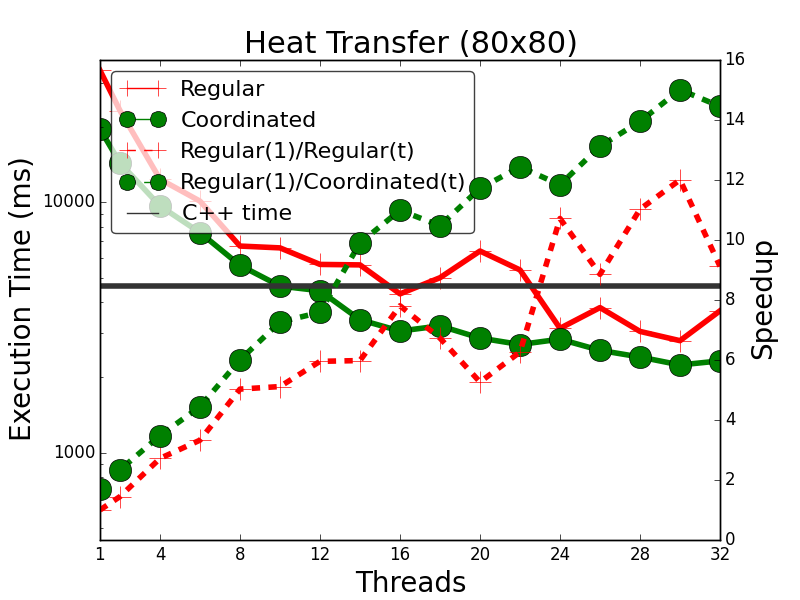
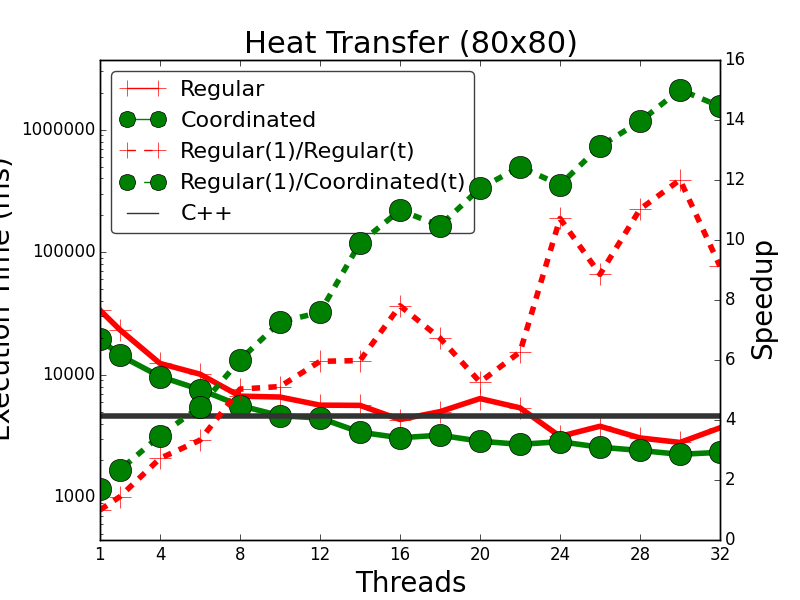
Add ligra results.

diff --git a/coordination/coord_sssp.tex b/coordination/coord_sssp.tex
@@ -71,7 +71,7 @@ and threads are still able to locally avoid unnecessary work.
 
 In order to experiment with the coordinated SSSP program, we extend it to
 support the computation of shortest distances from multiple sources. This
-modified version, named MSSD was already used in
+modified version, named MSSD, was already used in
 Section~\ref{section:implementation:performance} for measuring the performance
 of LM's virtual machine. MSSD is not only more interesting than SSSP but also
 allows us to better understand the advantages of using coordination.
@@ -110,9 +110,15 @@ version; \textbf{Regular(1)/Regular(t)}, which represents the speedup of the
 regular version using the single threaded regular version as the baseline;
 \textbf{Regular(1)/Coordinated(t)}, which represents the speedup of the
 coordinated version against the run time of the regular version using 1 thread
-as the baseline; and \textbf{C++}, which represents the run time of the MSSD C++
-program already presented in Section~\ref{section:implementation:performance}.
-Note that the run time (vertical axis) axis uses a logarithmic scale.
+as the baseline; \textbf{C++}, which represents the run time of the MSSD C++
+program already presented in Section~\ref{section:implementation:performance};
+\textbf{Ligra}, which represents the run time of the MSSD program written in the
+Ligra framework~\cite{Shun:2013:LLG:2517327.2442530}. Ligra's program computes
+the multiple shortest distance computations using the BellmanFord program
+provided by the source distribution\footnote{Modified version of the program is
+available at \url{http://github.com/flavioc/ligra}}, but modified to compute
+the distance from a single source node separately.  Note that the run time
+(vertical axis) axis uses a logarithmic scale.
 
 Overall, there is a clear improvement in almost every dataset used. The datasets
 that see the best run time reductions are Twitter, Orkut and LiveJournal, which
@@ -180,6 +186,20 @@ version. This means that even if higher priority nodes are picked from the each
 thread's subgraph, the coordinated version is still able to reduce run time. In
 other words, optimal (global) node scheduling is not required to see good
 results.
+
+Ligra's version of the MSSD program performs badly when using multiple source
+nodes (datasets EU Email, OCLinks and US Power Grid). We found Ligra primitives
+(\code{edgeMap} and \code{vertexMap}) unsuitable for simultaneous computation of
+shortest distances. It would have been better to drop Ligra and use a
+task-parallel approach, where tasks, represented as source nodes, are assigned
+to threads and each task would use a sequential shortest distance algorithm. LM
+shines in such cases since it is a declarative language that can be used to
+solve a wider range of problems. Ligra beats LM in the Twitter, Orkut and
+LiveJournal datasets, where Ligra is, on average, 9, 3, and 10 times faster than
+LM, respectively. In terms of scalability, LM has similar scalability in the
+Twitter and Orkut datasets, but worse scalability in the LiveJournal dataset. It
+should be also noted that the datasets EU Email and OCLinks are too small for
+Ligra, therefore it is hard to make a scalability comparison for those datasets.
 
 In Section~\ref{section:coordination:coord_instrs}, we described the coalescing
 optimization where priority action facts are coalesced into single operations.

diff --git a/threads/powergrid.tex b/threads/powergrid.tex
@@ -324,22 +324,22 @@ having many generators in the case of using just 1 thread.
 
 The second important observation relates to the last two datasets where we
 experimented with a variable capacity for the generators. For the Low
-Variability dataset, the consumers have very identical capacities, while in the
-High Variability dataset, generators have a more variable capacity, which should
-make it harder for the algorithm to find a valid generator/consumer assignment.
-Our results show exactly that: the Low Variability shows a very small difference
-between the \textbf{Regular} and \textbf{Threads} version, while in the High
-Variability dataset, the \textbf{Threads} version is much faster than the
-\textbf{Regular} version. However, for the High Variability dataset, we were
-expecting a speedup that was closer to the 0.5 M C / 2000 G dataset, since the
-number of generators is much higher. Furthermore, if we compare the run times of
-the \textbf{Regular} and \textbf{Threads} version when using 1 thread, we notice
-that the \textbf{Threads} version is actually slower. As noted before, this may
-be due to the fact that the LM rule for assigning generators to consumers needs
-to perform a linear scan on the available generators to find a suitable
-generator which then negatively impacts performance. This is a clear drawback of
-the logic programming model that could potentially be solved by maintaining a
-sorted list of \texttt{thread-capacity} facts.
+Variability dataset, the consumers have identical capacities, while in the High
+Variability dataset, generators have a more variable capacity, which should make
+it harder for the algorithm to find a valid generator/consumer assignment.  Our
+results show exactly that: the Low Variability shows a small difference between
+the \textbf{Regular} and \textbf{Threads} version, while in the High Variability
+dataset, the \textbf{Threads} version is much faster than the \textbf{Regular}
+version. However, for the High Variability dataset, we were expecting a speedup
+that was closer to the 0.5 M C / 2000 G dataset, since the number of generators
+is much higher. Furthermore, if we compare the run times of the \textbf{Regular}
+and \textbf{Threads} version when using 1 thread, we notice that the
+\textbf{Threads} version is actually slower. As noted before, this may be due to
+the fact that the LM rule for assigning generators to consumers needs to perform
+a linear scan on the available generators to find a suitable generator which
+then negatively impacts performance. This is a clear drawback of the logic
+programming model that could potentially be solved by maintaining a sorted list
+of \texttt{thread-capacity} facts.
 
 In Table~\ref{table:threads:powergrid_stats}, we present several fact statistics
 that compare the \textbf{Regular} version with the \textbf{Threads} version when

diff --git a/background/parallel_programming.tex b/background/parallel_programming.tex
@@ -18,22 +18,22 @@ processing unit that makes work distribution decisions or the scheduler uses a
 to improve load balance.
 
 A popular technique for implementing parallelism is by using \emph{imperative
-parallel programming}. In imperative programming, there is a
-sequence of steps that the processor must do and a \emph{memory area} where the
-processor stores and retrieves data during the course of execution. To implement
-parallelism, imperative applications are modified using new concurrency or
-communication constructs that allow the programmer to explicitly exploit
-parallelism. It requires the programmer to write code to efficiently split
-computation among processing units and allow sharing of data between processing
-units. Imperative parallel
-programming is a low-level form of parallel programming because the programmer has total control over
-scheduling and partitioning of data. The very nature of parallel execution means
-increased non-determinism during execution which leads to execution
-inter-leavings that the programmer needs to be aware of.  Furthermore, many
-well-known imperative algorithms are not easily parallelizable and require
-complete new approaches to run in a scalable fashion. Finally, non-determinism
-makes it hard to prove properties of the program because the simpler assumptions
-of the imperative model no longer hold under the new programming model.
+parallel programming}. In imperative programming, there is a sequence of steps
+that the processor must do and a \emph{memory area} where the processor stores
+and retrieves data during the course of execution. To implement parallelism,
+imperative applications are modified using new concurrency or communication
+constructs that allow the programmer to explicitly exploit parallelism. It
+requires the programmer to write code to efficiently split computation among
+processing units and allow sharing of data between processing units. Imperative
+parallel programming is a low-level form of parallel programming because the
+programmer has total control over scheduling and partitioning of data. The
+nature of parallel execution means increased non-determinism during execution
+which leads to execution inter-leavings that the programmer needs to be aware
+of.  Furthermore, many well-known imperative algorithms are not easily
+parallelizable and require complete new approaches to run in a scalable fashion.
+Finally, non-determinism makes it hard to prove properties of the program
+because the simpler assumptions of the imperative model no longer hold under the
+new programming model.
 
 In terms of communication and synchronization between the available processing
 units, there are two main imperative parallel programming models available for

diff --git a/experiments/lib.py b/experiments/lib.py
@@ -834,7 +834,7 @@ class experiment(object):
       ax.set_yscale('log', basey=10)
       ax.yaxis.set_major_formatter(matplotlib.ticker.FormatStrFormatter('%d'))
 
-   def coordination_compare(self, coord_exp, cexp, prefix, name_coord = None, max_speedup = None):
+   def coordination_compare(self, coord_exp, cexp, prefix, name_coord = None, max_speedup = None, other_systems={}):
       fig = plt.figure()
       ax = fig.add_subplot(111)
       ax2 = ax.twinx()
@@ -857,7 +857,12 @@ class experiment(object):
       ax2.set_ylabel('Speedup', fontsize=ylabelfontsize)
       self.set_log_scale(ax)
       ax.set_xlim([1, self.max_threads()])
-      ax.set_ylim([min(self.min_time(), coord_exp.min_time()), max(self.max_time(), coord_exp.max_time())])
+      min_time = min(self.min_time(), coord_exp.min_time())
+      for other_name, other_exp in other_systems.iteritems():
+         min_time = min(min_time, other_exp.min_time())
+      max_time = max(self.max_time(), coord_exp.max_time()) * 100
+
+      ax.set_ylim([min_time, max_time])
       if max_speedup:
          ax2.set_ylim([0, max_speedup])
       cmap = plt.get_cmap('gray')
@@ -872,12 +877,20 @@ class experiment(object):
       if cexp:
          ctime, = ax.plot(self.x_axis(), [cexp.get_time(1)] * len(self.x_axis()),
            label='Linear', linestyle='-', color=cmap(0.2))
+      otherplots = []
+      for other_name, other_exp in other_systems.iteritems():
+         plot, = ax.plot(other_exp.x_axis(), other_exp.time_data(),
+               label = other_name + ' Run Time', linestyle='-', marker='s', color='blue')
+         otherplots.append((other_name, plot))
 
       lines = [(regtime), coordtime, regspeedup, coordspeedup]
       labels = ["Regular", name_coord, "Regular(1)/Regular(t)", "Regular(1)/" + name_coord + "(t)"]
       if cexp:
         lines.append(ctime)
-        labels.append("C++ time")
+        labels.append("C++")
+      for (name, plot) in otherplots:
+         lines.append(plot)
+         labels.append(name)
 
       ax.legend(lines, labels, loc=2, fontsize=LEGEND_SIZE, fancybox=True, framealpha=FRAME_ALPHA, markerscale=2)
 
@@ -917,13 +930,18 @@ def setup_lines(ax, cmap):
      ln.set_markersize(markersize)
      ln.set_markevery(markerspace)
 
-SPECIAL_SYSTEMS = ["c", "python", "graphlab", "ligra"]
+SPECIAL_SYSTEMS = ["c", "python", "graphlab"]
 
 def parse_threads(sched):
+   if sched.startswith('ligra'):
+      if sched == "ligra": return 1
+      return int(sched[5:])
    if sched in SPECIAL_SYSTEMS: return 1
    else: return int(sched[2:])
 
 def parse_sched(sched):
+   if sched.startswith('ligra'):
+      return 'ligra'
    if sched in SPECIAL_SYSTEMS: return sched
    elif sched.startswith('gl'): return 'gl'
    else: return "th"

diff --git a/coordination/queens.tex b/coordination/queens.tex
@@ -182,18 +182,18 @@ possible board configurations of row $i$. However, when the number of threads
 increases, it results in reduced scalability since there is less work available
 per thread since row $i$ must be processed before row $i+1$.
 
-In the \textbf{Bottom} configuration, there is very little change when compared
-to the uncoordinated version of N-Queens. However, interesting things happen in
-the \textbf{Bottom Static} configuration when the number of rows is equal to the
+In the \textbf{Bottom} configuration, there is little change when compared to
+the uncoordinated version of N-Queens. However, interesting things happen in the
+\textbf{Bottom Static} configuration when the number of rows is equal to the
 number of threads. For an example, observe
 Fig.~\ref{fig:coordination:coord_14queensbottomstatic} where using 14 threads
-takes almost the same run time as the regular version when using 32 threads.
-In this case, each thread is assigned a single column of the chess
-board and is able to process only the states for that particular column. This
-behaviour was investigated in the Valgrind's CacheGrind tool, which showed that
-this particular combination has the smallest number of cache misses. This
-indicates that it is helpful to match the problem to the number of available
-CPU's in the system in order to increase memory locality.
+takes almost the same run time as the regular version when using 32 threads.  In
+this case, each thread is assigned a single column of the chess board and is
+able to process only the states for that particular column. This behaviour was
+investigated in the Valgrind's CacheGrind tool, which showed that this
+particular combination has the smallest number of cache misses. This indicates
+that it is helpful to match the problem to the number of available CPU's in the
+system in order to increase memory locality.
 
 
 \begin{figure}[]

diff --git a/experiments/coordination/compare-sssp.py b/experiments/coordination/compare-sssp.py
@@ -1,0 +1,43 @@
+#!/usr/bin/python
+
+import sys
+from lib import *
+
+if len(sys.argv) < 6:
+   print "usage: compare-sssp.py <regular runtime> <coordinated runtime> <sequential runtime> <ligra runtime> <prefix> [name]"
+   sys.exit(1)
+
+regular_sets = read_experiment_set(sys.argv[1])
+try: regular_threaded = regular_sets["th"]
+except: sys.exit(1)
+
+coord_sets = read_experiment_set(sys.argv[2])
+try: coord_threaded = coord_sets["coord"]
+except: sys.exit(1)
+
+seq_sets = read_experiment_set(sys.argv[3])
+try: cexp_set = seq_sets["c"]
+except: sys.exit(1)
+
+ligra_sets = read_experiment_set(sys.argv[4])
+try: ligra_set = ligra_sets["ligra"]
+except: sys.exit(1)
+
+prefix = sys.argv[5]
+
+for name in regular_threaded.experiment_names():
+   datasets = regular_threaded.experiment_datasets_for(name)
+
+   for dataset in datasets:
+      regular_exp = regular_threaded.get_experiment(name, dataset)
+      coord_exp = coord_threaded.get_experiment(name, dataset)
+      c_exp = cexp_set.get_experiment(name, dataset)
+      ligra_exp = ligra_set.get_experiment(name, dataset)
+      if regular_exp and coord_exp and ligra_exp:
+         if len(sys.argv) == 7:
+            name_used = sys.argv[6]
+         else:
+            name_used = None
+         regular_exp.coordination_compare(coord_exp, c_exp, prefix, name_used, None, {"Ligra": ligra_exp})
+
+sys.exit(0)

diff --git a/implementation/node.tex b/implementation/node.tex
@@ -80,7 +80,7 @@ in one of the four data structures:
    structures for a particular persistent predicate.
 
 \item \emph{Doubly Linked List Data Structures} are used to store linear facts.
-   We use a double linked list because it is a very efficient way to add and
+   We use a double linked list because it is a efficient way to add and
    remove facts. The \code{prev} and \code{next} pointers are used to chain
    the facts of the linked list.
 
@@ -166,7 +166,7 @@ becomes too dense, it is doubled in size. When it becomes too sparse, it is
 reduced in half or simply transformed back into a doubly linked list. This is
 done once in a while, before a node executes.
 
-We have seen very good results with this scheme. The overhead of dynamic
+We have seen good results with this scheme. The overhead of dynamic
 indexing is negligible since programs run almost as fast as if the indices have
 been added from the start. However, the programmer can still index predicates
 statically, if needed, using the directive \code{index pred/arg}, where

diff --git a/threads/splash-bp.tex b/threads/splash-bp.tex
@@ -135,11 +135,11 @@ Fig.~\ref{fig:threads:results_splash} compares the performance of the LBP
 program in LM against both the \textbf{fifo} and \textbf{multiqueue} schedulers.
 The results show that GraphLab's \textbf{fifo} scheduler performance
 deteriorates with more 10 threads, while both LM and \textbf{multiqueue} tend to
-scale very well and have a similar behavior. For 1 thread, LM is about 1.5
-times slower than GraphLab but that ratio increases to about to about 2 once the
+scale well and have a similar behavior. For 1 thread, LM is about 1.5 times
+slower than GraphLab but that ratio increases to about to about 2 once the
 number of threads increases. We think this is because the LBP program is fairly
-sensitive to scheduling policies and the \textbf{multiqueue} scheduler is
-better than LM's default scheduling policy.
+sensitive to scheduling policies and the \textbf{multiqueue} scheduler is better
+than LM's default scheduling policy.
 
 \begin{figure}[]
         \centering

diff --git a/implementation.tex b/implementation.tex
@@ -24,10 +24,9 @@ empty and there are no references to the node from other logical facts, then the
 node is deleted from the program. We keep around a small number of freed nodes
 that can be reused immediately if another node is created. We avoid garbage
 collection schemes based on tracing since objects are created and discarded in
-very specific points of the virtual machine. A reference counting mechanism is
-thus more appropriate than a parallel tracing garbage collector which would
-entail pausing the execution of the program to garbage collect all the unused
-objects.
+specific points of the virtual machine. A reference counting mechanism is thus
+more appropriate than a parallel tracing garbage collector which would entail
+pausing the execution of the program to garbage collect all the unused objects.
 
 \section{Memory Allocation}\label{section:implementation:allocation}
 \input{implementation/allocation}

diff --git a/implementation/allocator-compare.tex b/implementation/allocator-compare.tex
@@ -5,11 +5,11 @@ system.
 
 Figure~\ref{fig:implementation:malloc_results} presents several programs
 comparing \code{malloc} with the threaded allocator. The programs Belief
-Propagation, MiniMax, and N-Queens have very poor scalability when using the
+Propagation, MiniMax, and N-Queens have poor scalability when using the
 \code{malloc} operator due to high thread contention when calling \code{malloc}
 since those programs need to allocate many small objects. The PageRank programs
 shows good scalability with \code{malloc} but it is only because the
-configuration with 1 thread runs very slowly when compared to the other
+configuration with 1 thread runs slowly when compared to the other
 configurations. For all the remaining programs, there is less overall
 performance and scalability when compared to the threaded allocator.
 

diff --git a/introduction.tex b/introduction.tex
@@ -15,7 +15,7 @@ MPI~\cite{gabriel04-open-mpi}) and \emph{shared memory} (e.g.,
 Pthreads~\cite{Butenhof:1997:PPT:263953} or
 OpenMP~\cite{Chapman-2007-UOP-1370966}). While such abstractions give a lot of
 control to the programmer and provide excellent performance, program APIs are
-very hard to use and debug, which makes it difficult to prove that a program is
+hard to use and debug, which makes it difficult to prove that a program is
 correct, for instance. On the opposite end, we have many declarative programming
 models~\cite{Blelloch:1996:PPA:227234.227246} that can exploit some form of
 implicit parallelism.  While those declarative paradigms tend to make programs

diff --git a/conclusions.tex b/conclusions.tex
@@ -27,8 +27,8 @@ facts. Thread facts are facts stored at the thread level and allow the
 programmer to write rules that reason about thread state. This opens new
 opportunities for program optimization and improved parallelism because programs
 are aware of the existence of threads. Furthermore, the availability of both
-thread and coordination facts allows and is very convenient for implementing
-more sophisticated scheduling parallel algorithms.
+thread and coordination facts allows and is convenient for implementing more
+sophisticated scheduling parallel algorithms.
 
 We now enumerate in more detail the main contributions of this thesis:
 
